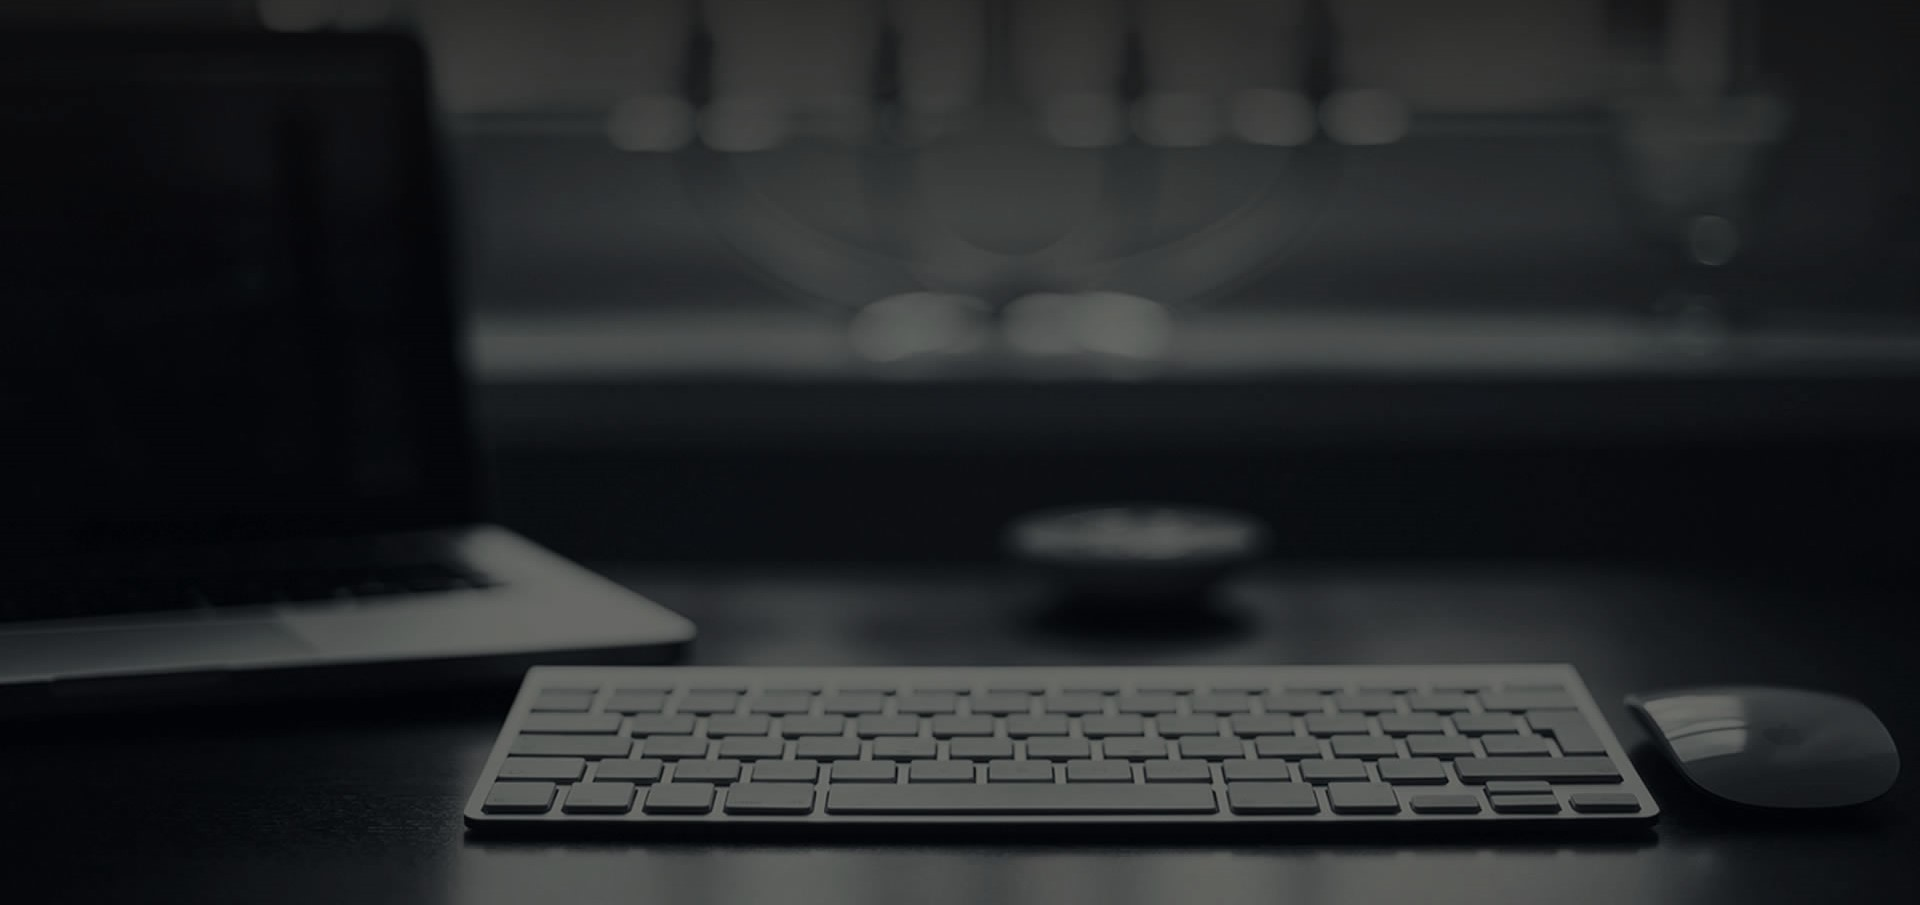
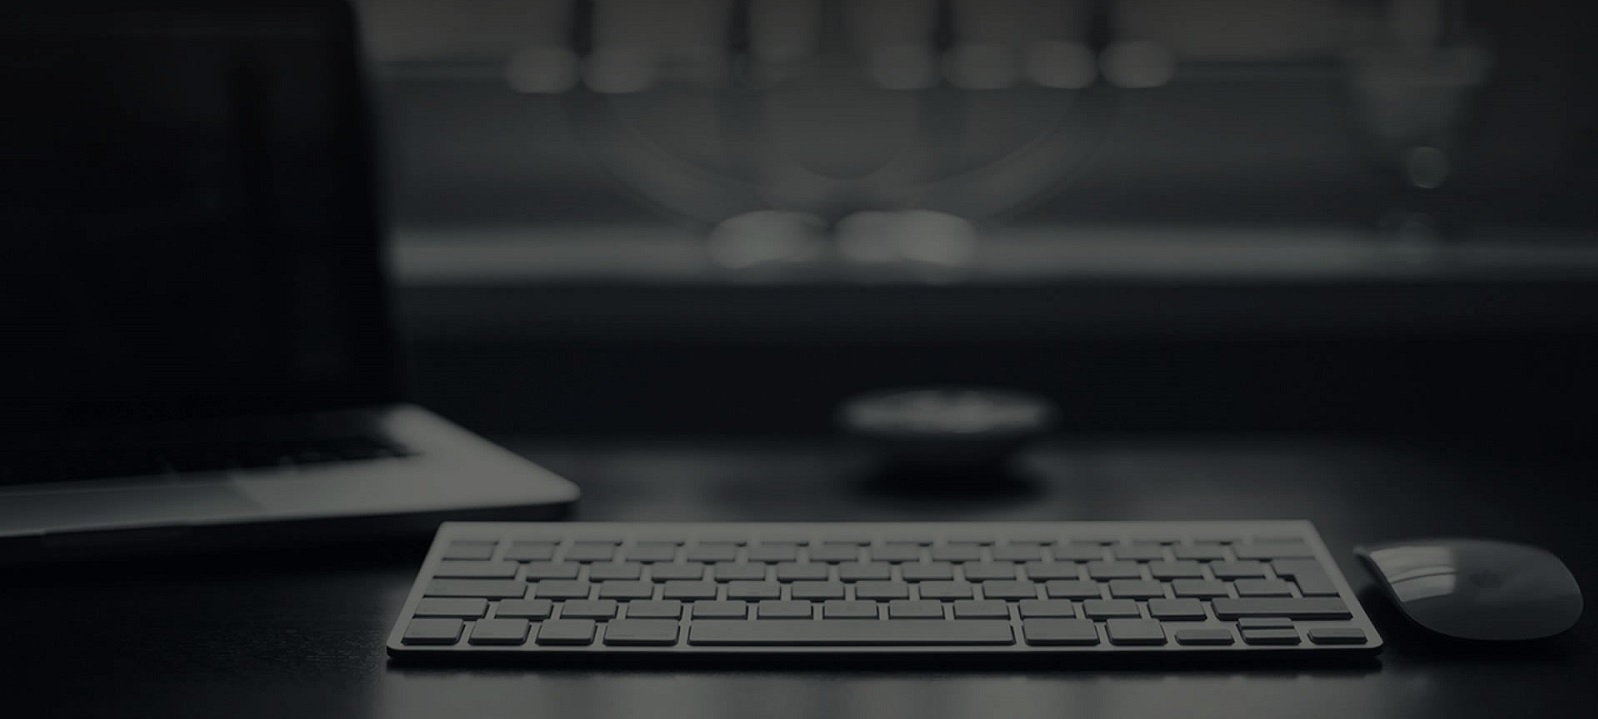
updated background size and media queries

diff --git a/index.html b/index.html
@@ -35,8 +35,8 @@
 
 	<div class="container" id="container-pages">
 		<div class="row">
-			<div class="col-md-12">
-				<div class="collapse" id="aboutPage">
+			<div class="col-md-10 offset-1">
+				<div class="collapse" id="aboutPage" data-parent="#container-pages">
 					<img id="profile" src="./assets/images/profile.jpg" alt="Joshua Bradley Profile Pic">
 					<p id="profile-text">Joshua Bradley is a resourceful laboratory professional and aspiring Full Stack Developer
 						with over eleven
@@ -65,8 +65,8 @@
 		</div>
 
 		<div class="row">
-			<div class="col-md-12">
-				<div class="collapse" id="projectsPage">
+			<div class="col-md-10 offset-1">
+				<div class="collapse" id="projectsPage" data-parent="#container-pages">
 					<div id="project-carousel" class="carousel slide" data-ride="carousel">
 						<ol class="carousel-indicators">
 							<li data-target="#project-carousel" data-slide-to="0" class="active"></li>
@@ -122,9 +122,18 @@
 			</div>
 		</div>
 		<div class="row">
-			<div class="col-md-12">
-				<div class="collapse" id="contactPage">
-					Contact.
+			<div class="col-md-10 offset-1">
+				<div class="collapse" id="contactPage" data-parent="#container-pages">
+					<form method="post" action="mailto:bradleyjd19@gmail.com">
+						Name<br>
+						<input id="formName" type="text" name="user name" placeholder=" Name" required="required"><br>
+						Email<br>
+						<input id="formEmail" type="email" name="email" placeholder=" username@email.com" required="required"><br>
+						Message<br>
+						<!-- Textarea tag allows for resizable text box -->
+						<textarea id="formMessage" name="message" placeholder=" Type message here" required="required"></textarea>
+						<input id="formSubmit" type="submit" value="Submit">
+					</form>
 				</div>
 			</div>
 		</div>
@@ -153,7 +162,7 @@
 				<h1 id="intro">
 					<div id="preName">My name is </div>
 					<div id="name">Joshua Bradley</div>
-					<div id="postName"> I'm a Web Developer and a Problem-Solver.</div>
+					<div id="postName"> I'm a Web Developer and I solve problems.</div>
 				</h1>
 			</div>
 		</div>

diff --git a/assets/css/style.css b/assets/css/style.css
@@ -5,6 +5,8 @@
 
 body {
   height: 100%;
+  background-image: url("../images/background.png");
+  background-attachment: fixed;
   background-color: rgb(50, 55, 59);
   color: white;
   font-weight: 600;
@@ -39,8 +41,6 @@ body {
   font-size: 28px;
   color: white;
 }
-
-
 
 #container-header {
   overflow: hidden;
@@ -128,18 +128,40 @@ button:focus {
   font-size: 20px;
 }
 
+form {
+  line-height: 2em;
+}
+
+input {
+  width: 100%;
+  height: 30px;
+  margin-bottom: 10px;
+}
+
+#formMessage {
+  width: 100%;
+  height: 150px;
+  line-height: 1.5em;
+}
+
+#formSubmit {
+  height: 40px;
+  width: 120px;
+  background-color: red;
+  color: #ffffff;
+  font-weight: bold;
+  font-size: 18px;
+  line-height: 1.5em;
+  border: 1px solid red;
+  border-radius: 4px;
+  margin-top: 15px;
+}
+
 #name {
   color: red;
   font-size: 60px;
   font-weight: 500;
-}
-
-#name-pages {
-  color: red;
-  font-size: 40px;
-  font-weight: 500;
-  float: left;
-  margin-right: 0;
+  margin: 10px 0;
 }
 
 footer {
@@ -172,9 +194,48 @@ a:hover {
   padding-right: 10px;
 }
 
-@media only screen and (min-width: 1440px) {
-    body {
-      background-image: url("../images/background.png");
-      background-size: cover;      
-    }
+@media only screen and (min-width: 770px) {
+  #footer-email,
+  #footer-phone {
+    float: right;
+    clear: both;
   }
+
+  #about,
+  #projects,
+  #contact {
+    width: 150px;
+    font-size: 32px;
+    margin: 0 30px;
+    text-align: center;
+  }
+
+  #container-pages {
+    margin-top: 50px;
+  }
+
+  #profile-text {
+    font-size: 20px;
+  }
+
+  #complement,
+  #portfolio,
+  #giftastic,
+  #trivia,
+  #crystals {
+    font-size: 18px;
+  }
+
+#title {
+  font-size: 28px;
+}
+
+#codeBlock {
+  font-size: 24px;
+}
+
+#row-intro {
+  margin-top: 70px;
+}
+
+}

diff --git a/assets/javascript/portfolio.js b/assets/javascript/portfolio.js
@@ -27,10 +27,16 @@ function showLinks() {
   document.getElementById("container-header").style.opacity = "1";
 }
 
-$(document).on("click", "#projects", hideTags);
+$(document).on("click", ".btn", hideContent);
 
-function hideTags() {
-  $("#tagline1").hide();
-  $("#tagline2").hide();
-  $("#tagline3").hide();
+function hideContent() {
+  $("#container-content").hide();
+}
+
+$("#formSubmit").on("click", clearForm);
+
+function clearForm() {
+  $("#formName").val("");
+  $("#formEmail").val("");
+  $("#formMessage").val("");
 }
